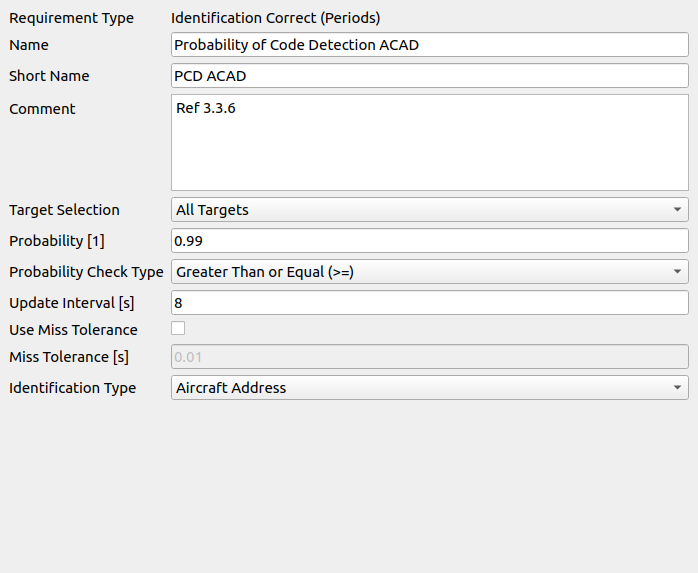
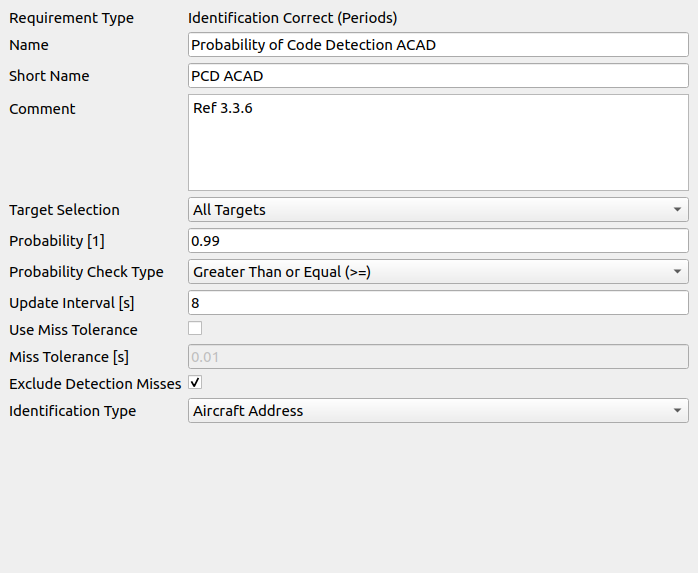
ED-142: PCD without detection misses, PLG per update interval, PCMCD label
- Correct (Periods) requirements: new option 'Exclude Detection Misses'. Update
  intervals without any test target report (gaps between all test target reports)
  are removed from the expected and the missed update intervals (ED-142 6.4.3).
  With the option, a reference period with test target reports but without a
  correct code counts all its update intervals as missed.
- ED-142 standard: PCD ACAD, M3A and MC use the option. PLG counts the missed
  update intervals in long gaps per expected update interval (no gap count),
  En-Route minimum gap length 26.4 s and maximum 0.1 % (ED-142 3.3.4, 6.4.8).
- Mode C Correct (Periods): short name 'PCMCD', the report adds the unit.
- User manual: option text, ED-142 notes, both Correct (Periods) screenshots.

Changed region(s): [[0.0, 0.3264, 0.9928, 0.7417], [0.2407, 0.0, 0.6318, 0.2077]]

diff --git a/src/eval/requirement/base/intervalbase.cpp b/src/eval/requirement/base/intervalbase.cpp
@@ -25,8 +25,10 @@
 
 #include "timeconv.h"
 
+#include <algorithm>
+#include <set>
 
-namespace EvaluationRequirement 
+namespace EvaluationRequirement
 {
 
 /**
@@ -191,6 +193,9 @@ std::shared_ptr<EvaluationRequirementResult::Single> IntervalBase::evaluate(cons
                   detail_info.evt_comment);
     }
 
+    if (exclude_detection_misses_)
+        excludeDetectionMisses(periods, events, sum_uis, misses_total);
+
     //create derived-specific result
     return createResult("UTN:" + std::to_string(target_data.utn_),
                         instance,
@@ -200,6 +205,61 @@ std::shared_ptr<EvaluationRequirementResult::Single> IntervalBase::evaluate(cons
                         periods,
                         sum_uis,
                         misses_total);
+}
+
+/**
+ * Removes the update intervals without any test target report from the expected and the
+ * missed update intervals, e.g. EUROCAE ED-142 6.4.3: the probability of code detection
+ * only counts update intervals in which a target report was output.
+ *
+ * The detection misses are counted as the code misses, but over the gaps between all test
+ * target reports of an inside period (including period begin and end). An inside period
+ * without a valid update has no code misses from its events, so all its update intervals
+ * are counted as code misses here.
+ */
+void IntervalBase::excludeDetectionMisses(const TimePeriodCollection& periods,
+                                          const std::vector<Event>& events,
+                                          uint32_t& sum_uis,
+                                          uint32_t& misses_total) const
+{
+    //inside periods with at least one valid update (by inside period index)
+    std::set<uint32_t> periods_with_valid;
+
+    for (const auto& e : events)
+        if (e.period.has_value() && (e.type == Event::TypeValidFirst || e.type == Event::TypeValid))
+            periods_with_valid.insert(e.period.value());
+
+    uint32_t detection_misses = 0;
+    uint32_t inside_period_cnt = 0;
+
+    for (size_t i = 0; i < periods.size(); ++i)
+    {
+        const auto& period = periods.period(i);
+
+        if (period.type() != TimePeriod::Type::InsideSector)
+            continue;
+
+        if (!periods_with_valid.count(inside_period_cnt))
+            misses_total += numMisses(Utils::Time::partialSeconds(period.duration()));
+
+        ++inside_period_cnt;
+
+        auto t_last = period.begin();
+
+        for (const auto& update : period.getUpdates())
+        {
+            auto t = update.data_id.timestamp();
+
+            detection_misses += numMisses(Utils::Time::partialSeconds(t - t_last));
+            t_last = t;
+        }
+
+        detection_misses += numMisses(Utils::Time::partialSeconds(period.end() - t_last));
+    }
+
+    sum_uis      = sum_uis > detection_misses ? sum_uis - detection_misses : 0;
+    misses_total = misses_total > detection_misses ? misses_total - detection_misses : 0;
+    misses_total = std::min(misses_total, sum_uis);
 }
 
 /**

diff --git a/doc/user_manual/eval/eval_req_mc.tex b/doc/user_manual/eval/eval_req_mc.tex
@@ -101,6 +101,7 @@ detection, which has to fulfill a given threshold.
     \item Update Interval [s]: Update interval of the test data
     \item Use Miss Tolerance: Checkbox if miss tolerance should be used
     \item Miss Tolerance [s]: Acceptable time delta for miss detection
+    \item Exclude Detection Misses: Checkbox if only update intervals with a test target report should be counted
     \item Maximum Offset [ft]: Maximum absolute distance between reference and test value for Mode C code to be counted as correct
     \item Level Flight Only: Checkbox if only reference periods in level flight should be used
     \item Maximum Level ROCD [ft/min]: Maximum absolute reference rate of climb/descent for level flight, only used if 'Level Flight Only' is set
@@ -117,6 +118,15 @@ If 'Level Flight Only' is set, the following applies:
 \ \\
 
 This option implements EUROCAE ED-142 section 6.4.3, which uses segments of trajectories with constant flight level only. In the supplied ED-142 standard it is set with a 'Maximum Level ROCD' of 300 ft/min. \\
+
+If 'Exclude Detection Misses' is set, the following applies:
+\begin{itemize}
+    \item Detection misses are update intervals without any test target report. They are counted from the gaps between all test target reports, in the same way as the misses.
+    \item The detection misses are removed from the expected and from the missed update intervals. The probability is then the probability of a correct Mode C code within an update interval in which a test target report was output.
+    \item A reference period with test target reports, but without a correct Mode C code, counts all its update intervals as missed.
+    \item This option implements EUROCAE ED-142 section 6.4.3. It is set in the supplied ED-142 standard.
+\end{itemize}
+\ \\
 
 \subsubsection{Result Values}
 

diff --git a/doc/user_manual/eval/evaluation.tex b/doc/user_manual/eval/evaluation.tex
@@ -223,7 +223,10 @@ For the EUROCAE ED-129C standard (ADS-B Ground Station performance), the followi
 
 For the EUROCAE ED-142 standard, the following applies:
 \begin{itemize}
+\item The Probability of Code Detection ACAD, M3A and MC requirements use the 'Exclude Detection Misses' option of the \nameref{sec:eval_req_id_correct_periods} and \nameref{sec:eval_req_mc_correct_periods} requirements. ED-142 section 6.4.3 counts only update intervals in which a target report was output. Update intervals without any target report are part of the Probability of Position Detection.
+\item For the Aircraft Address, the ED-142 definition states a ratio of target reports, but the formula in section 6.4.3 counts update intervals. The supplied standard uses the formula.
 \item The Probability of Code Detection MC requirements use the \nameref{sec:eval_req_mc_correct_periods} requirement with the 'Level Flight Only' option (ED-142 section 6.4.3, segments of trajectories with constant flight level only).
+\item The Probability of Long Position Gaps requirements use the \nameref{sec:eval_req_detection} requirement with a minimum gap length of 26.4 s (En-Route) and 16.5 s (TMA), without 'Use Gap Count'. As in ED-142 section 6.4.8, the missed update intervals in the long gaps are divided by the expected update intervals.
 \item The Probability of False pressure altitude (ED-142 section 3.3.7, at most 0.1 \%) is checked with the \nameref{sec:eval_req_mc_false} requirement.
 \end{itemize}
 \ \\

diff --git a/doc/user_manual/eval/eval_req_id.tex b/doc/user_manual/eval/eval_req_id.tex
@@ -103,8 +103,19 @@ identification detection, which has to fulfill a given threshold.
     \item Update Interval [s]: Update interval of the test data
     \item Use Miss Tolerance: Checkbox if miss tolerance should be used
     \item Miss Tolerance [s]: Acceptable time delta for miss detection
+    \item Exclude Detection Misses: Checkbox if only update intervals with a test target report should be counted
     \item Identification Type: Type of identification to check (\textit{Aircraft Address}, \textit{Aircraft Identification} or \textit{Mode A})
 \end{itemize}
+\ \\
+
+If 'Exclude Detection Misses' is set, the following applies:
+\begin{itemize}
+    \item Detection misses are update intervals without any test target report. They are counted from the gaps between all test target reports, in the same way as the misses.
+    \item The detection misses are removed from the expected and from the missed update intervals. The probability is then the probability of a correct identification within an update interval in which a test target report was output.
+    \item A reference period with test target reports, but without a correct identification, counts all its update intervals as missed.
+    \item This option implements EUROCAE ED-142 section 6.4.3. It is set in the supplied ED-142 standard.
+\end{itemize}
+\ \\
 
 \subsubsection{Result Values}
 

diff --git a/src/eval/requirement/base/intervalbaseconfig.cpp b/src/eval/requirement/base/intervalbaseconfig.cpp
@@ -46,6 +46,8 @@ IntervalBaseConfig::IntervalBaseConfig(nlohmann::json& config,
     registerParameter("miss_tolerance", &miss_tolerance_s_, 0.01f);
 
     registerParameter("hold_for_any_target", &hold_for_any_target_, false);
+
+    registerParameter("exclude_detection_misses", &exclude_detection_misses_, false);
 }
 
 /**
@@ -115,6 +117,12 @@ void IntervalBaseConfig::addToReport (std::shared_ptr<ResultReport::Report> repo
     {
         table.addRow({"Must hold for any Target", "Must hold for any target (every single target)",
                     Utils::String::boolToString(hold_for_any_target_)});
+    }
+
+    if (config_flags_ & ConfigFlags::UseExclDetMisses)
+    {
+        table.addRow({"Exclude Detection Misses", "Only update intervals with a test target report are counted",
+                      Utils::String::boolToString(exclude_detection_misses_)});
     }
 
     addCustomTableEntries(table);
@@ -230,6 +238,20 @@ bool IntervalBaseConfig::holdForAnyTarget() const
 void IntervalBaseConfig::holdForAnyTarget(bool value)
 {
     hold_for_any_target_ = value;
+}
+
+/**
+*/
+bool IntervalBaseConfig::excludeDetectionMisses() const
+{
+    return exclude_detection_misses_;
+}
+
+/**
+*/
+void IntervalBaseConfig::excludeDetectionMisses(bool value)
+{
+    exclude_detection_misses_ = value;
 }
 
 } // namespace EvaluationRequirement

diff --git a/src/eval/requirement/base/intervalbaseconfigwidget.cpp b/src/eval/requirement/base/intervalbaseconfigwidget.cpp
@@ -124,6 +124,18 @@ IntervalBaseConfigWidget::IntervalBaseConfigWidget(IntervalBaseConfig& cfg)
         form_layout_->addRow("Must hold for any target", hold_for_any_target_check_);
     }
 
+    // exclude detection misses
+    if (config_flags & IntervalBaseConfig::UseExclDetMisses)
+    {
+        exclude_detection_misses_check_ = new QCheckBox ();
+        exclude_detection_misses_check_->setChecked(config().excludeDetectionMisses());
+        exclude_detection_misses_check_->setToolTip("If only update intervals with a test target report should be counted");
+        connect(exclude_detection_misses_check_, &QCheckBox::clicked,
+                this, &IntervalBaseConfigWidget::toggleExcludeDetectionMissesSlot);
+
+        form_layout_->addRow("Exclude Detection Misses", exclude_detection_misses_check_);
+    }
+
     updateActive();
 }
 
@@ -250,6 +262,18 @@ void IntervalBaseConfigWidget::toggleHoldForAnyTargetSlot()
     if (hold_for_any_target_check_)
     {
         config().holdForAnyTarget(hold_for_any_target_check_->checkState() == Qt::Checked);
+    }
+}
+
+/**
+*/
+void IntervalBaseConfigWidget::toggleExcludeDetectionMissesSlot()
+{
+    loginf;
+
+    if (exclude_detection_misses_check_)
+    {
+        config().excludeDetectionMisses(exclude_detection_misses_check_->checkState() == Qt::Checked);
     }
 }
 

diff --git a/src/eval/requirement/base/intervalbase.h b/src/eval/requirement/base/intervalbase.h
@@ -134,6 +134,9 @@ public:
 
     float missThreshold() const;
 
+    bool excludeDetectionMisses() const { return exclude_detection_misses_; }
+    void excludeDetectionMisses(bool value) { exclude_detection_misses_ = value; }
+
 protected:
     virtual uint32_t numMisses(double dt) const;
     virtual DetailInfo eventDetailInfo(const EvaluationTargetData& target_data,
@@ -167,12 +170,18 @@ private:
                                     const EvaluationTargetData& target_data,
                                     const SectorLayer& sector_layer,
                                     bool skip_no_data_details) const;
+    void excludeDetectionMisses(const TimePeriodCollection& periods,
+                                const std::vector<Event>& events,
+                                uint32_t& sum_uis,
+                                uint32_t& misses_total) const;
 
     float                  update_interval_s_;
     boost::optional<float> min_gap_length_s_;
     boost::optional<float> max_gap_length_s_;
     boost::optional<float> miss_tolerance_s_;
     boost::optional<float> min_ref_period_s_;
+
+    bool exclude_detection_misses_ = false; // count only update intervals with a test target report
 };
 
 } // namespace EvaluationRequirement

diff --git a/src/eval/requirement/mode_c/correct_period.cpp b/src/eval/requirement/mode_c/correct_period.cpp
@@ -153,7 +153,7 @@ std::shared_ptr<EvaluationRequirementResult::Single> ModeCCorrectPeriod::createR
  */
 std::string ModeCCorrectPeriod::probabilityNameShortStatic()
 {
-    return "PCMCD [%]";
+    return "PCMCD";
 }
 
 /**
@@ -187,7 +187,7 @@ ModeCCorrectPeriodConfig::ModeCCorrectPeriodConfig(nlohmann::json& config,
                                                    Group* parent)
 :   IntervalBaseConfig(config, parent)
 {
-    configure(UseMissTol);
+    configure(UseMissTol | UseExclDetMisses);
 
     registerParameter("max_distance_ft", &max_distance_ft_, 300.0f);
     registerParameter("level_flight_only", &level_flight_only_, false);
@@ -211,6 +211,9 @@ std::shared_ptr<Base> ModeCCorrectPeriodConfig::createRequirement()
                 max_distance_ft_,
                 level_flight_only_,
                 max_level_rocd_ftpm_);
+
+    req->excludeDetectionMisses(exclude_detection_misses_);
+
     return req;
 }
 

diff --git a/src/eval/requirement/base/intervalbaseconfig.h b/src/eval/requirement/base/intervalbaseconfig.h
@@ -42,7 +42,8 @@ public:
         UseMinGapLen = 1 << 0,
         UseMaxGapLen = 1 << 1,
         UseMissTol   = 1 << 2,
-        UseAnyTarget = 1 << 4
+        UseAnyTarget = 1 << 4,
+        UseExclDetMisses = 1 << 5
     };
 
     IntervalBaseConfig(nlohmann::json& config,
@@ -76,6 +77,9 @@ public:
     bool holdForAnyTarget() const;
     void holdForAnyTarget(bool value);
 
+    bool excludeDetectionMisses() const;
+    void excludeDetectionMisses(bool value);
+
     uint32_t configFlags() const;
 
     virtual void addToReport (std::shared_ptr<ResultReport::Report> report) override;
@@ -103,6 +107,8 @@ protected:
     float miss_tolerance_s_   = 0.0f;
 
     bool hold_for_any_target_ = false; // if requirement must hold for any target (all single targets)
+
+    bool exclude_detection_misses_ = false; // count only update intervals with a test target report
 };
 
 } // namespace EvaluationRequirement

diff --git a/src/eval/requirement/identification/correct_period.cpp b/src/eval/requirement/identification/correct_period.cpp
@@ -191,7 +191,7 @@ IdentificationCorrectPeriodConfig::IdentificationCorrectPeriodConfig(nlohmann::j
                                                                      Group* parent)
 :   IntervalBaseConfig(config, parent)
 {
-    configure(UseMissTol);
+    configure(UseMissTol | UseExclDetMisses);
 
     registerParameter("identification_type", reinterpret_cast<int*>(&identification_type_), (int)IdentificationType::AircraftAddress);
 }
@@ -211,6 +211,9 @@ std::shared_ptr<Base> IdentificationCorrectPeriodConfig::createRequirement()
                 use_miss_tolerance_, 
                 miss_tolerance_s_,
                 identification_type_);
+
+    req->excludeDetectionMisses(exclude_detection_misses_);
+
     return req;
 }
 

diff --git a/src/eval/requirement/base/intervalbaseconfigwidget.h b/src/eval/requirement/base/intervalbaseconfigwidget.h
@@ -49,6 +49,7 @@ public slots:
     void missToleranceEditSlot(QString value);
 
     void toggleHoldForAnyTargetSlot();
+    void toggleExcludeDetectionMissesSlot();
 
 protected:
     void configure(uint32_t flags);
@@ -68,6 +69,8 @@ protected:
     QLineEdit* miss_tolerance_edit_       = nullptr;
 
     QCheckBox* hold_for_any_target_check_ = nullptr;
+
+    QCheckBox* exclude_detection_misses_check_ = nullptr;
 };
 
 } // namespace EvaluationRequirement
